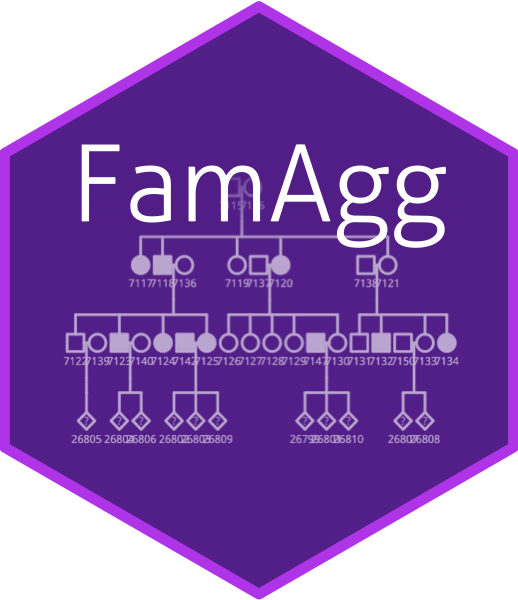
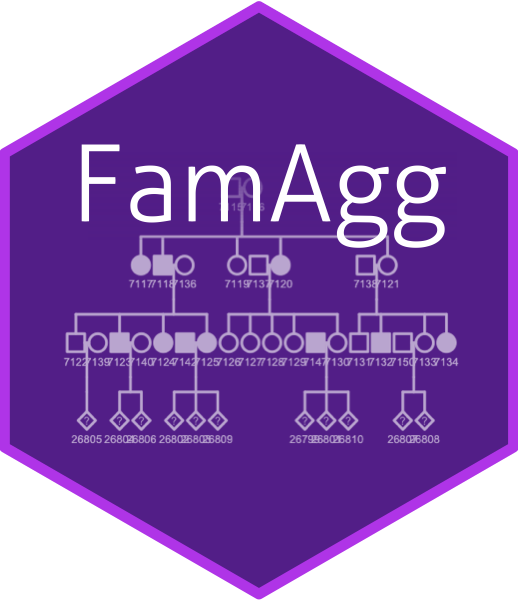
Add FamAgg sticker with highlight.

diff --git a/README.md b/README.md
@@ -24,7 +24,7 @@ please open an issue and discuss changes with the sticker maintainer.
 <img src="edgeR/edgeR.png" height="100">
 <img src="EGSEA/EGSEA.png" height="100">
 <img src="ensembldb/ensembldb.png" height="100">
-<img src="FamAgg/FamAgg.png" height="100">
+<img src="FamAgg/FamAgg_hl.png" height="100">
 <img src="GenomicRanges/GenomicRanges.png" height="100">
 <img src="genomation/genomation.png" height="100">
 <img src="GEOquery/GEOquery.png" height="100">
